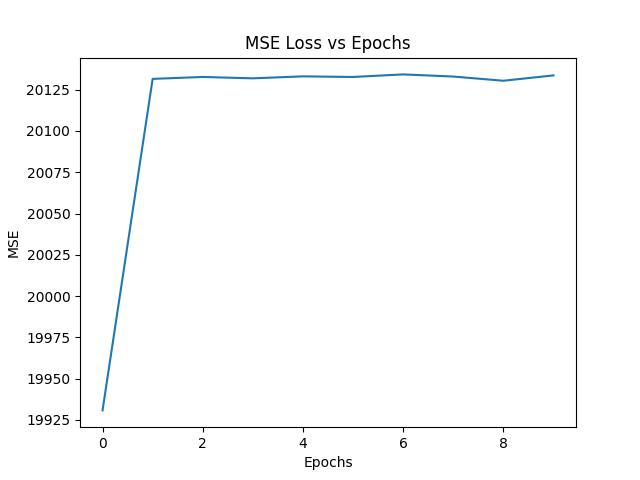
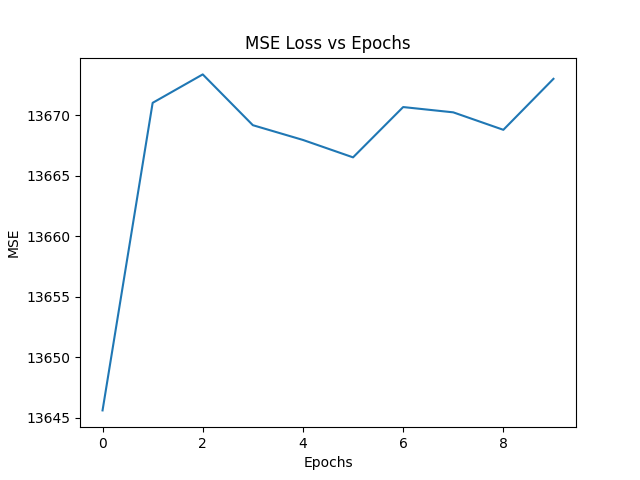
new ResnetUNet architecture

diff --git a/main_v2.py b/main_v2.py
@@ -1,0 +1,134 @@
+import matplotlib
+matplotlib.use('Agg')
+import matplotlib.pyplot as plt
+import torch
+import torch.nn as nn
+import torch.nn.functional as F
+import torch.optim as optim
+import torchvision.models
+import numpy as np
+
+from dataset import *
+
+##
+# ResNetUNet Reference: https://colab.research.google.com/github/usuyama/pytorch-unet/blob/master/pytorch_unet_resnet18_colab.ipynb#scrollTo=b8EJl0hcC5DH
+##
+def convrelu(in_channels, out_channels, kernel, padding):
+  return nn.Sequential(
+    nn.Conv2d(in_channels, out_channels, kernel, padding=padding),
+    nn.ReLU(inplace=True),
+  )
+
+
+class ResNetUNet(nn.Module):
+  def __init__(self, n_class):
+    super().__init__()
+
+    self.base_model = torchvision.models.resnet18(pretrained=True)
+    self.base_layers = list(self.base_model.children())
+
+    self.layer0 = nn.Sequential(*self.base_layers[:3]) # size=(N, 64, x.H/2, x.W/2)
+    self.layer0_1x1 = convrelu(64, 64, 1, 0)
+    self.layer1 = nn.Sequential(*self.base_layers[3:5]) # size=(N, 64, x.H/4, x.W/4)
+    self.layer1_1x1 = convrelu(64, 64, 1, 0)
+    self.layer2 = self.base_layers[5]  # size=(N, 128, x.H/8, x.W/8)
+    self.layer2_1x1 = convrelu(128, 128, 1, 0)
+    self.layer3 = self.base_layers[6]  # size=(N, 256, x.H/16, x.W/16)
+    self.layer3_1x1 = convrelu(256, 256, 1, 0)
+    self.layer4 = self.base_layers[7]  # size=(N, 512, x.H/32, x.W/32)
+    self.layer4_1x1 = convrelu(512, 512, 1, 0)
+
+    self.upsample = nn.Upsample(scale_factor=2, mode='bilinear', align_corners=True)
+
+    self.conv_up3 = convrelu(256 + 512, 512, 3, 1)
+    self.conv_up2 = convrelu(128 + 512, 256, 3, 1)
+    self.conv_up1 = convrelu(64 + 256, 256, 3, 1)
+    self.conv_up0 = convrelu(64 + 256, 128, 3, 1)
+
+    self.conv_original_size = convrelu(1, 3, 3, 1)
+    self.conv_original_size0 = convrelu(1, 64, 3, 1)
+    self.conv_original_size1 = convrelu(64, 64, 3, 1)
+    self.conv_original_size2 = convrelu(64 + 128, 64, 3, 1)
+
+    self.conv_last = nn.Conv2d(64, n_class, 1)
+
+  def forward(self, input):
+    x_original = self.conv_original_size0(input)
+    x_original = self.conv_original_size1(x_original)
+
+    x_input = self.conv_original_size(input)
+    layer0 = self.layer0(x_input)
+    layer1 = self.layer1(layer0)
+    layer2 = self.layer2(layer1)
+    layer3 = self.layer3(layer2)
+    layer4 = self.layer4(layer3)
+
+    layer4 = self.layer4_1x1(layer4)
+    x = self.upsample(layer4)
+    layer3 = self.layer3_1x1(layer3)
+    x = torch.cat([x, layer3], dim=1)
+    x = self.conv_up3(x)
+
+    x = self.upsample(x)
+    layer2 = self.layer2_1x1(layer2)
+    x = torch.cat([x, layer2], dim=1)
+    x = self.conv_up2(x)
+
+    x = self.upsample(x)
+    layer1 = self.layer1_1x1(layer1)
+    x = torch.cat([x, layer1], dim=1)
+    x = self.conv_up1(x)
+
+    x = self.upsample(x)
+    layer0 = self.layer0_1x1(layer0)
+    x = torch.cat([x, layer0], dim=1)
+    x = self.conv_up0(x)
+
+    x = self.upsample(x)
+    x = torch.cat([x, x_original], dim=1)
+    x = self.conv_original_size2(x)
+
+    out = self.conv_last(x)
+    out = torch.sigmoid(out)
+    return out
+
+sat_dataset = SARToImageDataset(root_dir='/scratch/jcava/SAR/QXSLAB_SAROPT',sar_dir='sar_256_oc_0.2',eo_dir='opt_256_oc_0.2')
+
+batch_size = 32
+dataset_loader = torch.utils.data.DataLoader(sat_dataset,
+                                             batch_size=batch_size, shuffle=True,
+                                             num_workers=4)
+
+
+model = ResNetUNet(3).cuda()
+optimizer = optim.Adam(model.parameters(), lr=1e-3, weight_decay=3e-3)
+epoch_loss = []
+max_epochs = 10
+import time
+for epoch in range(max_epochs):
+    start = time.time()
+    losses = []
+    for i, (x,y) in enumerate(dataset_loader):
+        x = x.float().cuda()
+        y = y.float().cuda() / 255
+        pred = model(x) # * 255
+        # print(pred.size())
+        optimizer.zero_grad()
+        loss = F.mse_loss(pred, y)
+        losses.append(loss.item())
+        loss.backward()
+        optimizer.step()
+    epoch_loss.append(np.mean(losses))
+    end = time.time()
+    print('Epoch ' + str(epoch) + ': ' + str(end-start) + 's')
+
+##
+# Plot Loss
+##
+plt.plot(list(range(len(epoch_loss))), epoch_loss)
+plt.title('MSE Loss vs Epochs')
+plt.ylabel('MSE')
+plt.xlabel('Epochs')
+plt.savefig('loss_v2.png')
+
+print('Done')
